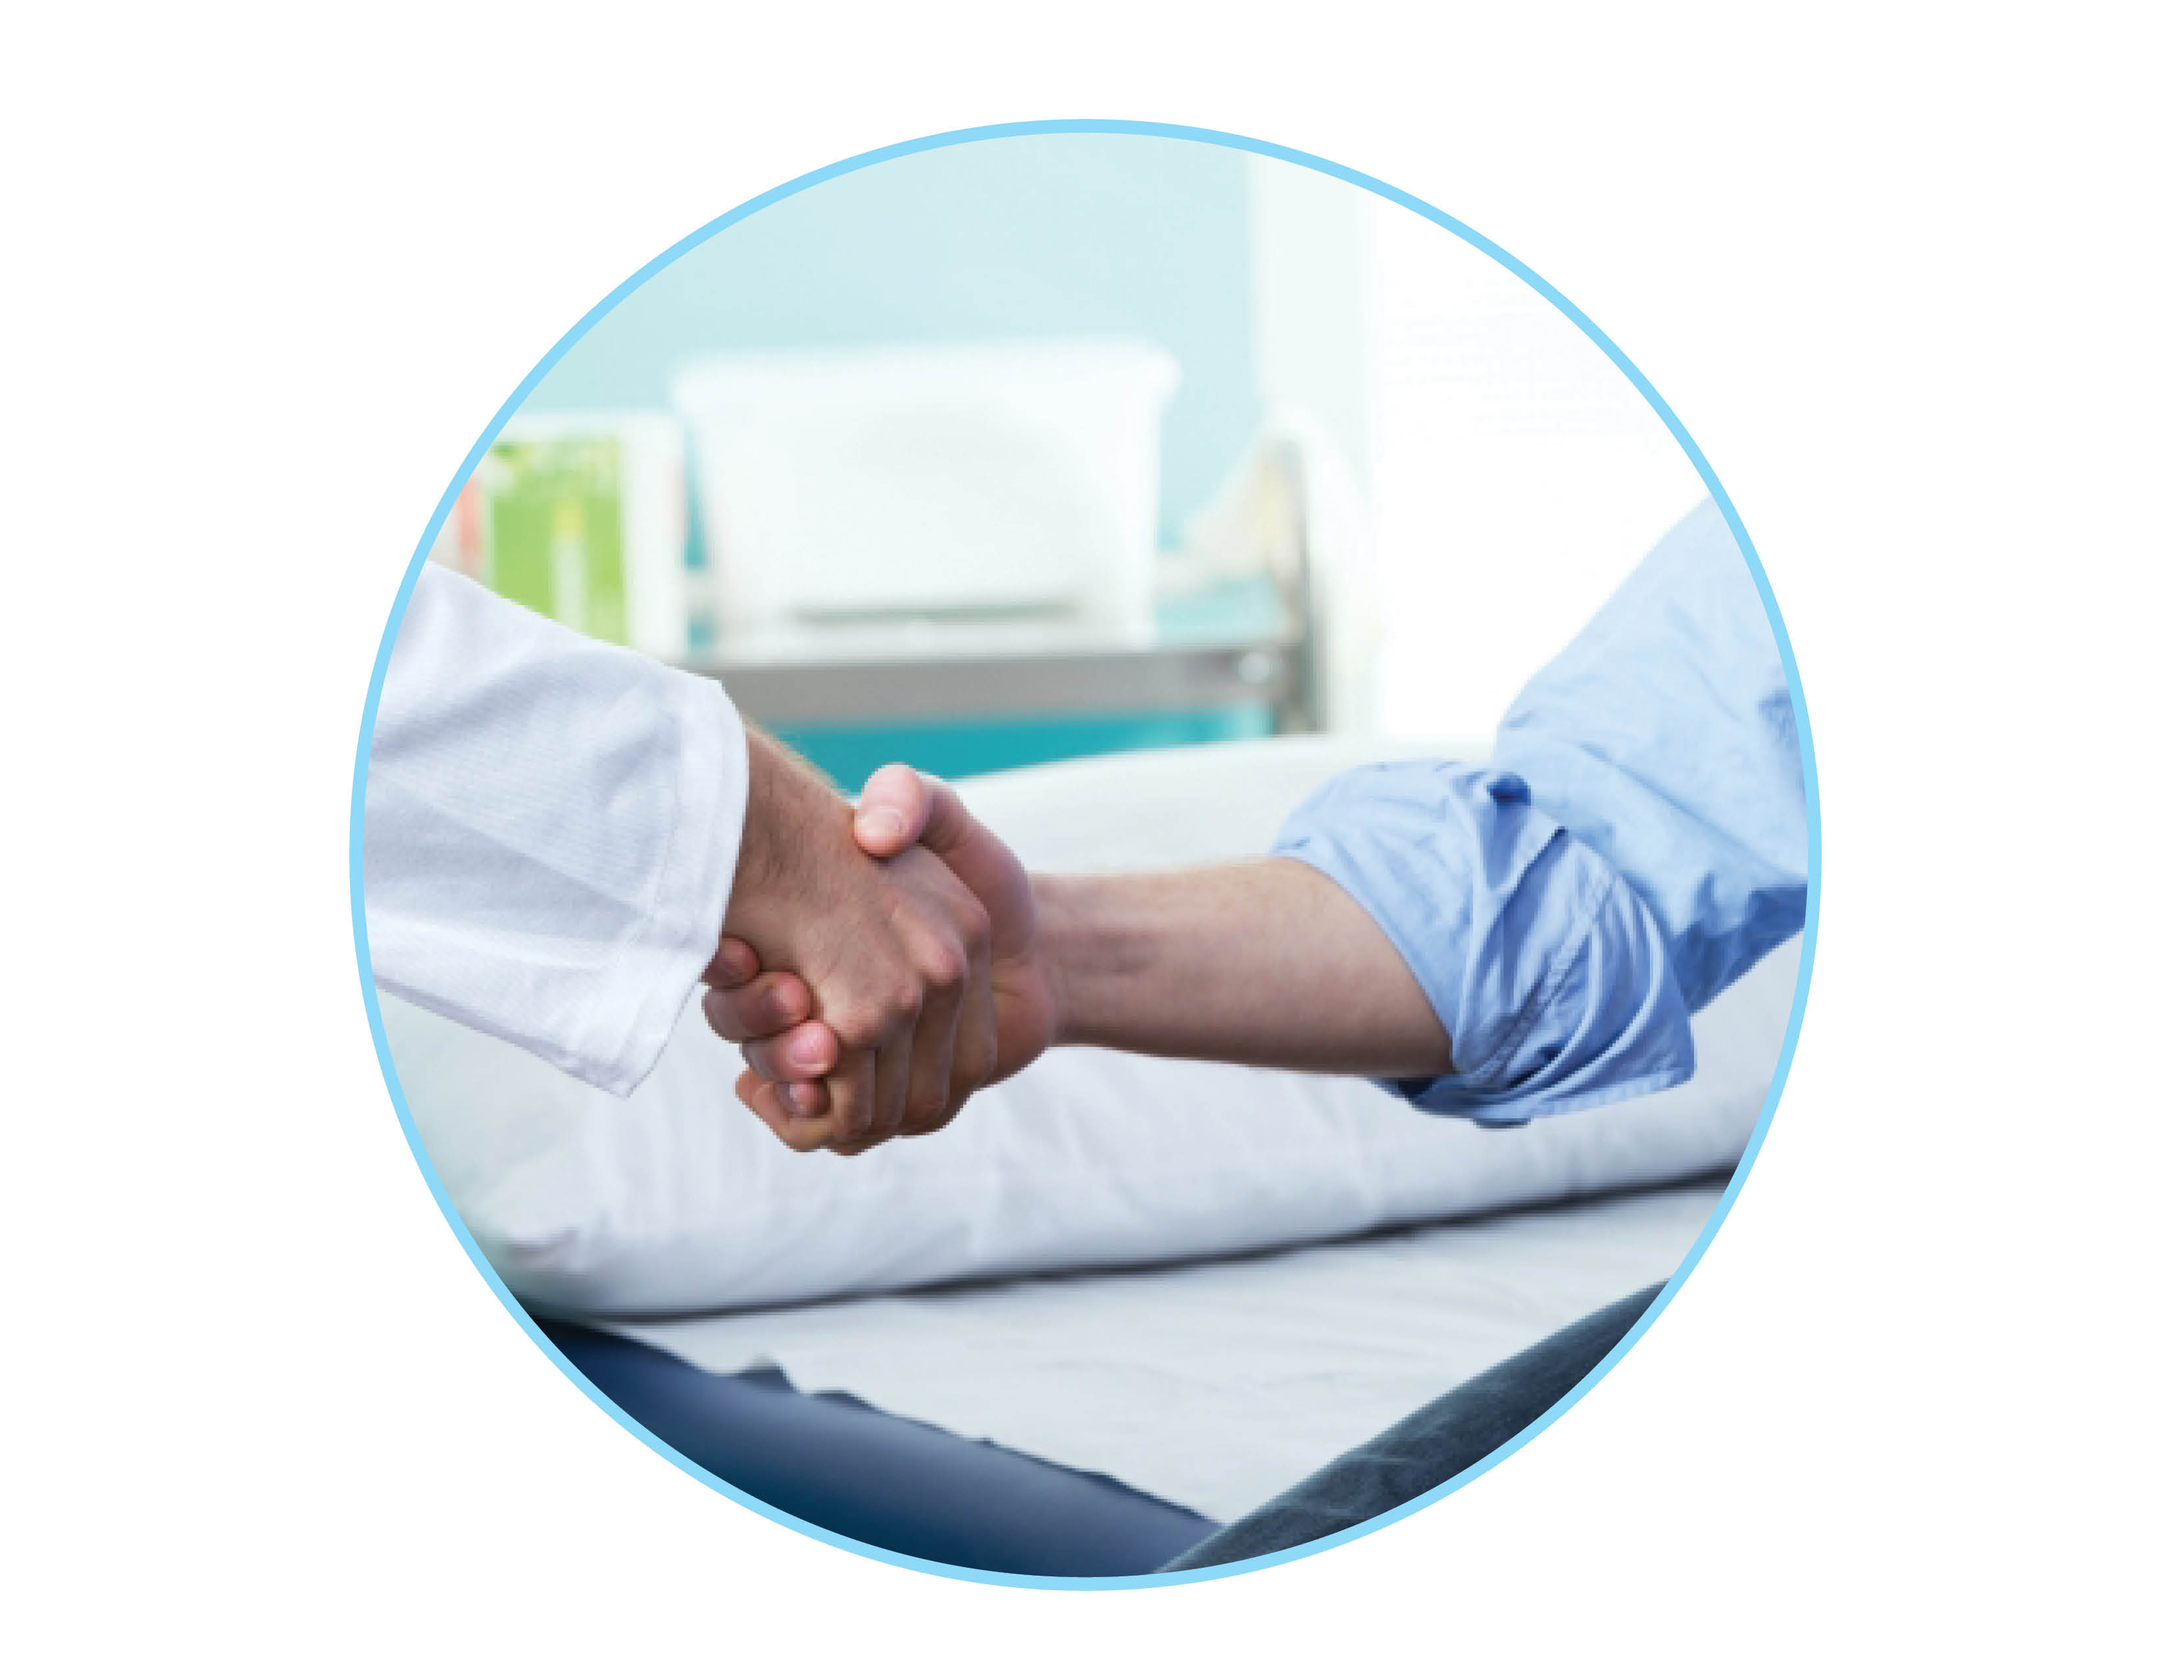
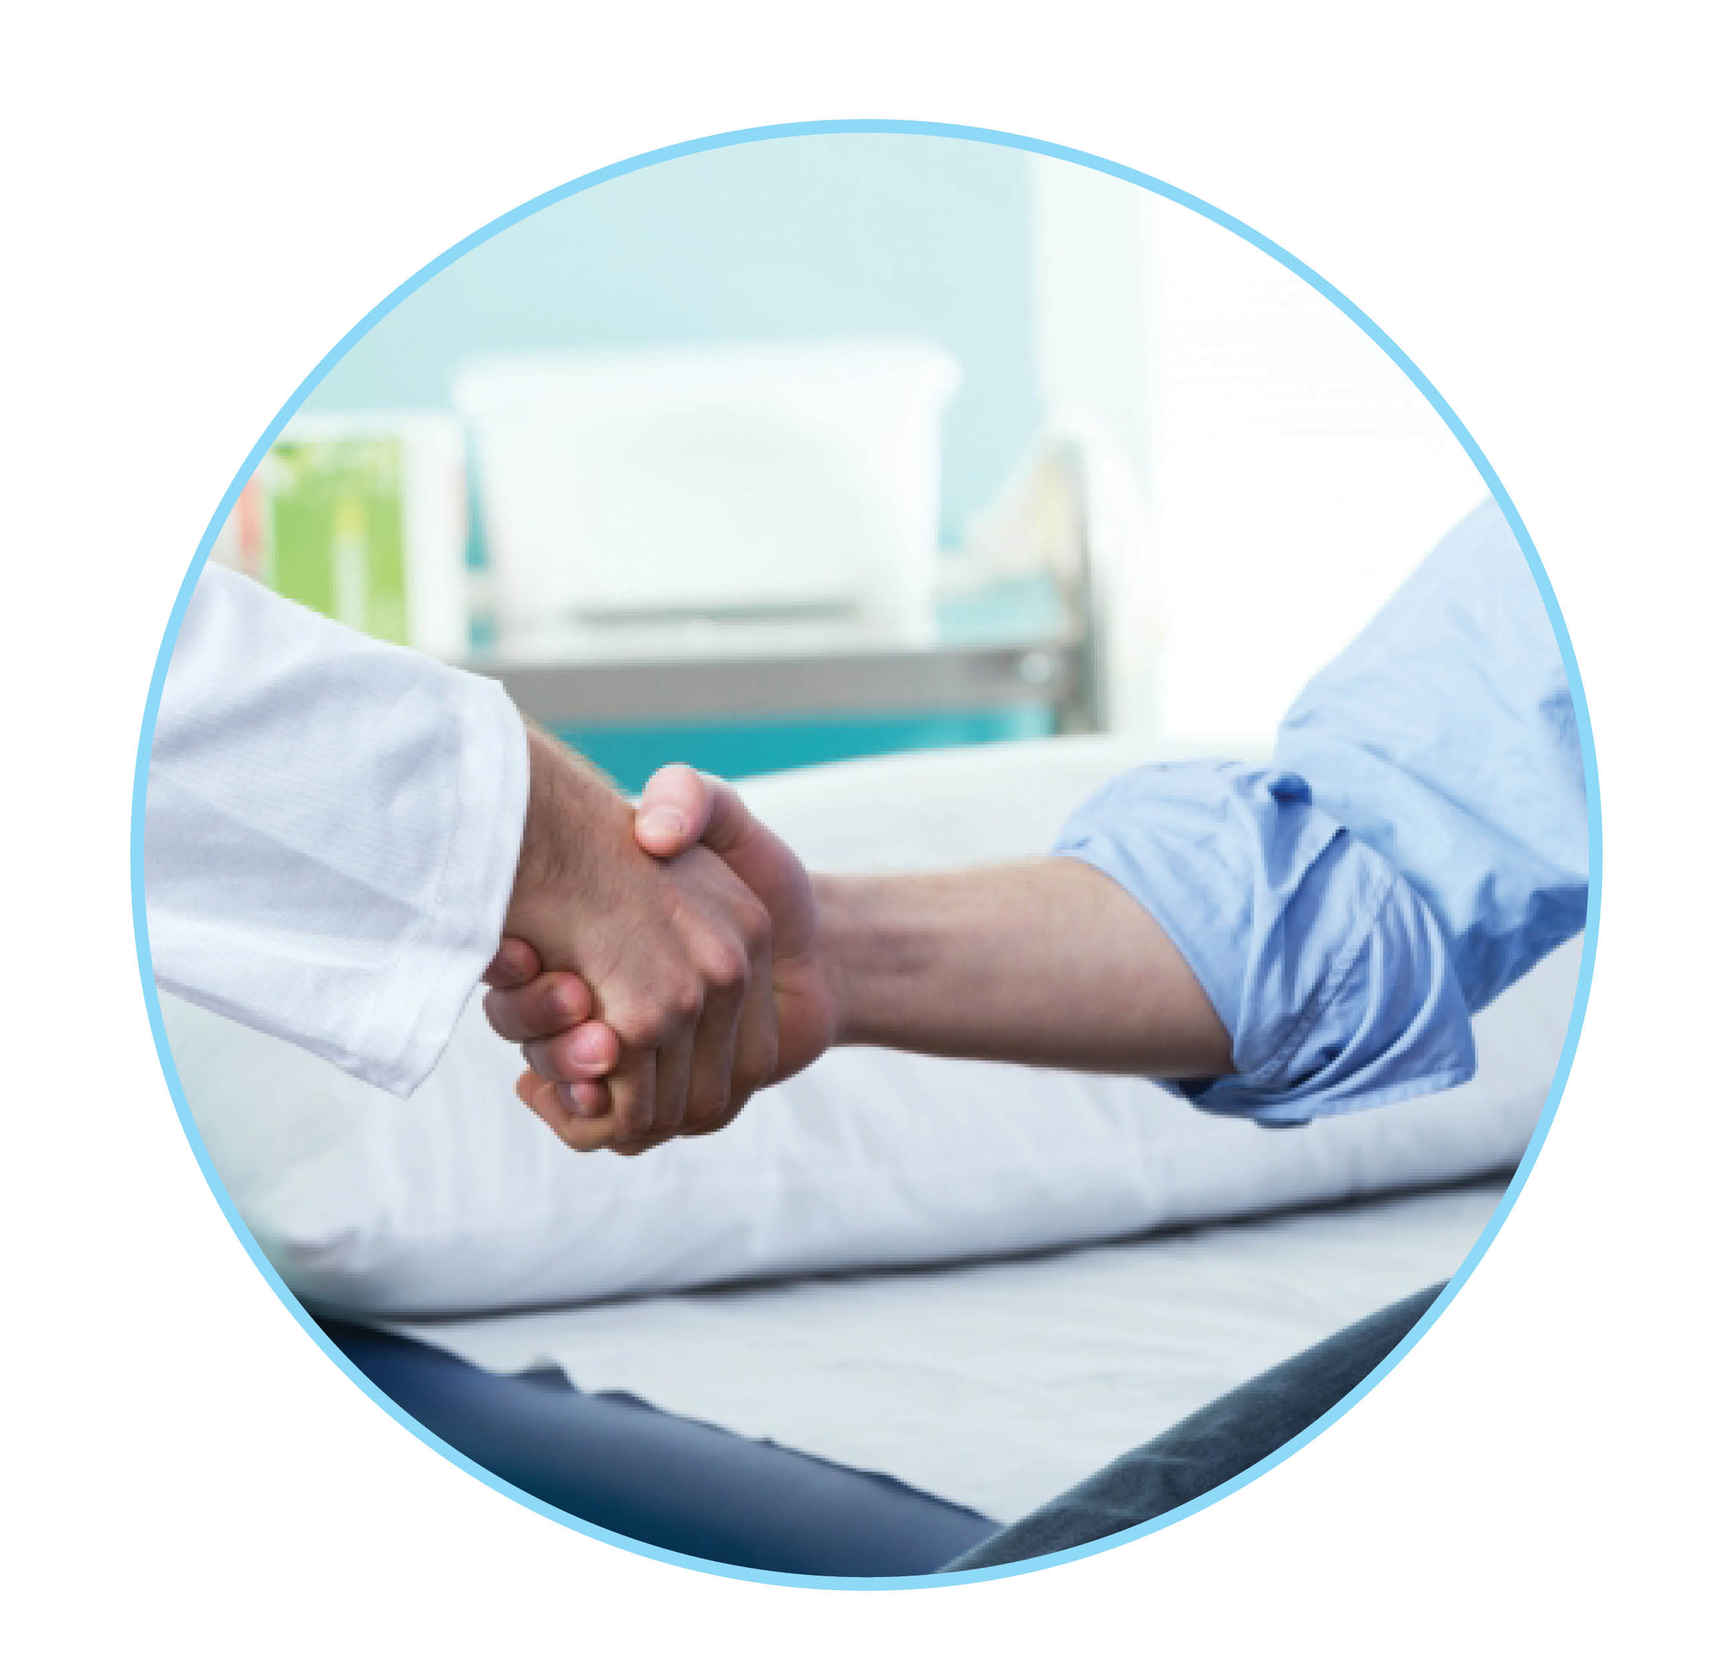
It's Wednesday My dude

diff --git a/healthnic.html b/healthnic.html
@@ -84,13 +84,13 @@
                 <div class="page-wrapper intro background">
                   <div>
                     <div class="row">
-                      <div class="col-sm-10 col-sm-offset-1">
-                        <h4>
+                      <div class="col-sm-12">
+                        <h3>
 My year-long thesis project sought for the meaning of patient experience, essential elements of excellence in patient experience, and explored the ways they can be utilized, improved, and intervened.
-                                         </h4>
+                                         </h3>
                       </div>
                     </div>
-                    <div class="row">
+                    <div class="row" style="padding-top: 3em">
                       <div class="col-sm-4  outline-col">
                           
                           <strong>Research</strong>
@@ -189,17 +189,18 @@ One thing that stood out to me was the polarized opinions on the practice of cli
                 <div class="page-wrapper">
                   <div>
                     <div class="row">
-                      <div class="col-sm-4">
+                      <div class="col-sm-5">
                         <h4>Ethnographic</h4>
                         <p class="text-left">    
-During my research, I was ill twice with strep throat. I purposefully chose two different healthcare organizations in order to examine the successes and pain points of two different experiences.
-                          <br><br>
-The experience at SU Health Center was much better than the one at Crouse Promptcare as the physician was more approachable and caring about my symptoms. The physician at the SU Health Center chatted with me about topics other than my medical condition and gave me further medical instruction with a friendly attitude while the physician at Crouse Promptcare only briefly discussed my symptoms with me then prescribed me antibiotics.
-                          <br><br>
-The layout of the clinic room also made a great difference. At the SU Health Center, the computer was situated between me and the physician, allowing the physician make eye contact with me while the assistant asked me basic inquiry questions and entered them into the laptop. At Crouse Promptcare, the computer is located on the opposite corner of me, and the physician's back was facing me almost the entire time.
+During my research, I was ill twice with strep throat. I purposefully chose two different healthcare organizations in order to examine the successes and pain points of two different experiences personally.
+<br><br>
+The experience at SU Health Center was considerably better than the one at Crouse Promptcare. The SU physician was approachable and caring about my symptoms. She chatted with me about topics other than my medical condition and gave me further medical instruction while the physician at Crouse Promptcare only briefly discussed with me then prescribed me antibiotics.
+<br><br>
+The layout of the clinic room also made a great difference. At the SU Health Center,the layout allowed the physician make eye contact with me while periodically. At Crouse Promptcare, the physician's back was facing me for the majority of the time.
+
                         </p>
                       </div>
-                      <div class="col-sm-8">
+                      <div class="col-sm-7">
                         <a href="img/healthnic/thesis-room.png" data-toggle="lightbox" data-gallery="example-gallery" class="col-sm-4">
                         <img src="img/healthnic/thesis-room.png" class="img-responsive">
                         </a>
@@ -283,7 +284,7 @@ Even though research has stated that clinical empathy can be trained, there is n
                 <div class="page-wrapper">
                   <div>
                     <div class="row">
-                      <div class="col-sm-4 content-copy">
+                      <div class="col-sm-5 content-copy">
                         <h4>Target User</h4>
                         <p class="text-left">
 My target users are the internists that see out-patients within large healthcare organizations.
@@ -293,8 +294,8 @@ Usually, it would be fairly challenging for internists to establish strong inter
 The selected target users group certainly made the project more challenging due to the circumstances, yet I believe they are the ones who would benefit the most from the scope of this project.
                         </p>
                       </div>
-                      <div class="col-sm-8">
-                        <a data-toggle="lightbox" href="img/healthnic/thesis-img6.jpg"><img class="img-responsive img-box" src="img/healthnic/thesis-img6.jpg">
+                      <div class="col-sm-7">
+                        <a data-toggle="lightbox" href="img/healthnic/Thesis-img-6.jpg"><img class="img-responsive img-box" src="img/healthnic/Thesis-img-6.jpg">
                         </a>
                       </div>
                       <hr/>
